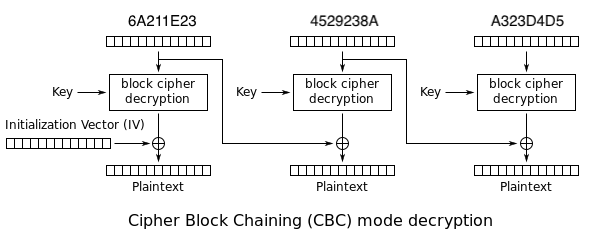
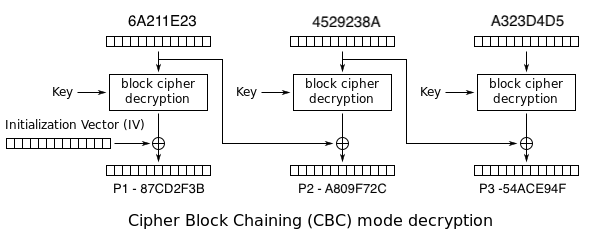
updating hex values,images and end of attack

diff --git a/backend/src/documentation/padding-oracle.md b/backend/src/documentation/padding-oracle.md
@@ -11,40 +11,43 @@ Firstly, to understand the _padding oracle attack_ also known as _Vaudenay attac
 
 The CBC mode encrypts blocks with the same block length. As you may think, certainly not all the plaintext messages length are a multiple of the cipher block length. So, how this problem can be solved? How a 14-byte message is encrypted where cipher blocks are 8 bytes? One of the techniques used is **padding**.
 
-The **padding** makes the ciphertext longer than the plaintext to maintain each block with the same size allowing to encrypt a message of any length. For block ciphers, padding is applied according to the [PKCS#7](https://en.wikipedia.org/wiki/Padding_(cryptography)#PKCS#5_and_PKCS#7) standard and [RFC 5652](https://tools.ietf.org/html/rfc5652#section-6.3). The standard says, the value to pad with is the number of bytes of padding that remains to fill a block. More technically, the message is expanded and extra bytes are added to the plaintext in order to complete a block. 
+The **padding** makes the plaintext longer with extra bytes to maintain each block with the same size allowing to encrypt a message of any length. For block ciphers, padding is applied according to the [PKCS#7](https://en.wikipedia.org/wiki/Padding_(cryptography)#PKCS#5_and_PKCS#7) standard and [RFC 5652](https://tools.ietf.org/html/rfc5652#section-6.3). The standard says, the value to pad with is the number of bytes of padding that remains to fill a block. More technically, the message is expanded and extra bytes are added to the plaintext in order to complete a block. 
 
 > Take in mind that one char is one byte in size. As an example, 8 chars are equal to 8 bytes. 
 
-For example, let's try to encrypt `FAKEGUY` with a block size of 8 bytes (or 8 characters). The message would be padded to `FAKEGUY\x01`. Why `\x01` at the end? According to the standard mentioned above, if there is one byte to complete the block, the message is padded with `\x01`. If there were two bytes the pad would be with `\x02`. Let's show a practical example of how this works with different message lengths and their pads.
+For example, let's try to encrypt `FAKEGUY`(0x46414b45475559) with a block size of 8 bytes (or 8 characters). The message would be padded to 0x46414b45475559**01**. Why `01` at the end? According to the standard mentioned above, if there is one byte to complete the block, the message is padded with `01`. If there were two bytes the pad would be with `02`. Let's show a practical example of how this works with different message lengths and their pads.
 
 
 
 ```
 Block size: 8 bytes
+Message: FAKEGUY --> 0x46414b45475559 (Hexadecimal)
 
-     Message                     Padded Message
+     Message                              Padded Message
      
-     FAKEGUY (7 bytes)   -->      FAKEGUY\x01
+     0x46414b45475559 (7 bytes)   -->     0x46414b45475559
      
-     FAKEGU (6 bytes)    -->      FAKEGU\x02\x02
+     0x46414b454755   (6 bytes)   -->     0x46414b454755\x02\x02
      
-     FAKE   (4 bytes)    -->      FAKE\x04\x04\x04\x04
+     0x46414b4547     (4 bytes)   -->     0x46414b4547\x04\x04\x04\x04
 ```
 
 Now with a message longer than 8 bytes.
 
 ```
-     FAKEGUYROCKS (12 bytes)     -->    FAKEGUYROCKS\x04\x04\x04\x04
+Message: FAKEGUYROCKS --> 0x46414b45475559524f434b53 (12 bytes)
 
 ```
+Becomes,
+> 0x46414b45475559524f434b53**04040404**
 
-The message `FAKEGUYROCKS` is 12 bytes (or 12 characters) long so, the message is split into two blocks with a total of 16 bytes (8 + 8 bytes). The padding was added due to in the last block was not complete. Thus, a pad of `\x04\x04\x04\x04` was added because four bytes were remaining.
+The message `0x46414b45475559524f434b53` is 12 bytes (or 12 characters) long so, the message is split into two blocks with a total of 16 bytes (8 + 8 bytes). The padding was added due to in the last block was not complete. Thus, a pad of `04040404` was added because four bytes were remaining.
 
 Additionally, if the message is a complete multiple of the size block, **padding is still added**, an empty block to be more precise. This looks a nonsense feature, I can feel your brain-blowing, right now.
 
 > _Why adding a pad if the message length is a multiple of the block size?_ 
 
-Well, imagine if your plaintext is literally `POTATO\x02\x02`. How could you distinguish a plaintext which content is `POTATO` (6 bytes) and `POTATO\x02\x02` (the `\x02\x02` at the end it seems  padding, but in reality it's part of the string). As a result, a full length block like `POTATOES` (8 bytes or chars) is padded to `POTATOES\x08\x08\x08\x08\x08\x08\x08\x08`.
+Well, imagine if your plaintext is literally `POTATO\x02\x02`. How could you distinguish a plaintext which content is `POTATO` (6 bytes) and `POTATO\x02\x02` (the `\x02\x02` at the end it seems  padding, but in reality it's part of the string). As a result, a full length block like `POTATOES` (8 bytes or chars) is padded to `POTATOES\x08\x08\x08\x08\x08\x08\x0\x08` which in hexadecimal is `0x504f5441544f45530808080808080808`.
 
 ### **Oracle**
 
@@ -58,7 +61,7 @@ An Oracle is a system (e.g. Web Application) that accepts arbitrary ciphertexts 
 
 To perform this attack is not needed to know the key, any plaintext or be an expert in math. Just access to a ciphertext you want to decrypt is enough. Firstly, pay attention to the diagram shown below of how the CBC mode decrypts a given ciphertext.
 
-![CBC Decryption](img/cbc_decrypt.png "CBC Decryption")
+![CBC Decryption](/documentation/img/cbc_decrypt.png "CBC Decryption")
 
 The most relevant point is how each block decryption ends. 
 
@@ -85,27 +88,35 @@ To conclude, the goal is to find the correct ciphertext payload to get a success
 
 Look for the example below, where the ciphertext is divided through the different blocks. 
 
-![Ciphertext Block Division](img/cipher_padding_oracle.png "Ciphertext Block Division")
+![Ciphertext Block Division](/documentation/img/cipher_padding_oracle.png "Ciphertext Block Division")
 
 As you can see the second cipher block drcyption output is directly XORed with the first cipher block which the attacker has control. So, let's try to decrypt the second cipher block.
 
-You can pickup a random C1 and substitutes it with the original ciphertext first block (**C1** || C2 || C3) and send to the oracle. The **X** points to the output of D(E,C2), the decrypted value of C2 which the value we are trying to figure out.
+You can pickup a random C1 and substitutes it with the original ciphertext first block (**C1** || C2 || C3) and send to the oracle. The **X** points to the output of **D(K,C2)**, the decrypted value of C2 which the value we are trying to figure out. 
 
-An example for the ciphertext payload is shown in the image below.
+**C1, C2, C3** are blocks of the ciphertext.
+
+**D(K,C)** --> **D** is the decryption function, **K** is the key and **C** a ciphertext block. 
+
+An example for the ciphertext payload is shown in the image below. 
+
+For explanation purposes each block is 4 byte size.
 
 > The payload: **00000000**4529238AA323D4D562B35056
 
-![Padding Oracle Attack Payload](img/payload_padding_oracle.png "Padding Oracle Attack Payload")
+![Padding Oracle Attack Payload](/documentation/img/payload_padding_oracle.png "Padding Oracle Attack Payload")
+
+The value of P1 is irrelevant because our goal is to decrypt C2 so, we don´t care the output of P1. P3 has not changed its output since we had only changed the first cipher block. Let's focus into decrypt the C2 block.
 
 With C1 = 00000000, the cipher decrypted to the following plaintext value.
 
 C1 block
 
-> 00 | 00 | 00 | 00 | 00 | 00 | 00 | 00
+> 00 | 00 | 00 | 00
 
 Decrypted Value
 
-> 47 | D4 | 12 | 73 | A8 | 09 | F7 | **2C** 
+> A8 | 09 | F7 | **2C** 
 
 Notice that that the last  byte of C1 decrypts to a plaintext with invalid padding, **2C**.
 
@@ -114,11 +125,11 @@ Let's try another value by incrementing the last byte.
 
 C1 block
 
-> 00 | 00 | 00 | 00 | 00 | 00 | 00 | **01**
+> 00 | 00 | 00 | **01**
 
 Decrypted value
 
-> 47 | D4 | 12 | 73 | A8 | 09 | F7 | **2D** 
+> A8 | 09 | F7 | **2D** 
 
 
 The output is another padding but with a different decrypted value **2D** since we change the last byte of C1.
@@ -129,17 +140,17 @@ Pay attention to the following case.
 
 C1 block
 
-> 00 | 00 | 00 | 00 | 00 | 00 | 00 | **2D**
+> 00 | 00 | 00 | **2D**
 
 Decrypted value
 
-> 47 | D4 | 12 | 73 | A8 | 09 | F7 | **01** 
+> A8 | 09 | F7 | **01** 
 
 The last byte of C1 with the value of **2D** decrypted to a valid padding because the last byte of decrypted is **01**. According to the PKCS#7 standard this a valid padding so, we found the value we want!
 
 > But how can we use this information to decrypt the C2 block?
 
-Now is the easy part. We know the C1 last bytes that outputs a valid padding **2D** and we know the plaintext output of it which is **01**. Now we can infer the value of X, the output of D(E,C2). If you have noticed, we can do that because the X value XORed with C1 to output the plaintext. At this point, you may know XOR is a commutative operation. 
+Now is the easy part. We know the C1 last bytes that outputs a valid padding **2D** and we know the plaintext output of it which is **01**. Now we can infer the value of X, the output of D(K,C2). If you have noticed, we can do that because the X value XORed with C1 to output the plaintext. At this point, you may know XOR is a commutative operation. 
 
 If,
 
@@ -149,7 +160,7 @@ Then,
 
 > C1 XOR Plaintext = X
 
-And that's how we get the value of X (D(E,C2)).
+And that's how we get the value of X (D(K,C2)).
 
 In our example,
 
@@ -167,5 +178,6 @@ Finally,
 
 We know the value of X (2C) and we are able to deduce the final value of the plaintext last byte. Simply XOR X with the previous original ciphertext block which is **6A211E23**. Confused? Compare these steps with the diagram of CBC decryption shown above.
 
+At this time, the last byte of C2 is known; to find the rest of it, we can work backward through the entire block until every byte of X function is cracked, thus letting us decrypt the C2 plaintext one byte at a time. For the other blocks, it is just applying the same method to crack the full message.
 
 
